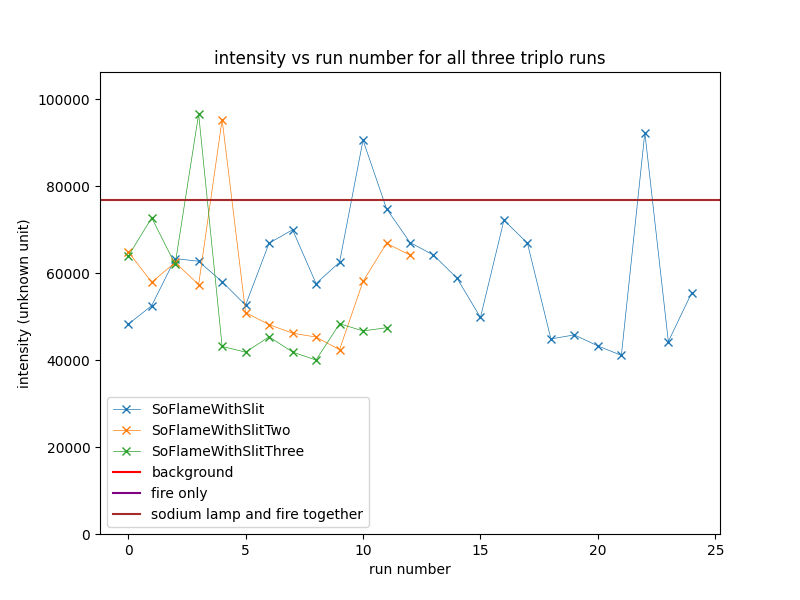
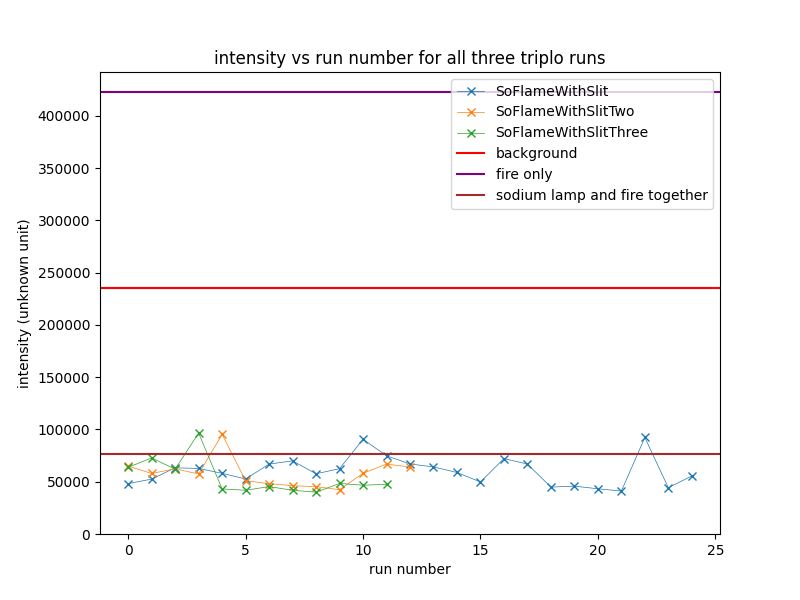
idk

diff --git a/python/package/module.py b/python/package/module.py
@@ -22,7 +22,7 @@ def _process_file(data, file, setupNumber):
     line = file.readline()                   # first columnname                
     while (True):                            # iterate over the columns
         columnName = line[:-1]               # cut of the '\n' at the end of the line                  
-        if (columnName == ""):               # check end of file (debug lamda)
+        if (columnName == ""):               # check end of file, readline() returns "" at end of file
             break 
                                              # add new column to data
         data[setupNumber][columnName] = np.zeros(4_098) # for some weird reason, 4_096 is not enough
@@ -31,10 +31,10 @@ def _process_file(data, file, setupNumber):
             line = file.readline()    
             try:                             # try to convert into float
                 value = float(line)
+                data[setupNumber][columnName][lineNr] = value   # add value to data       
                 lineNr += 1
             except:                   
                 break                        # line is non numeric => line is column name
-            data[setupNumber][columnName][lineNr] = value   # add value to data       
 # process could fastened by deleting variable columnName
          
 def acquire_data():
@@ -170,13 +170,13 @@ def plot_experiment(background, fireLight, sodiumLight, sodiumLampAndFlameLight,
     sodiumWithMagnet = ["SodiumWithMagnetic", "Two", "Three"]
     mercury = ["fireWithSodium", "two", "third"]
     
-    for setupNumber, experiment in [(5, sodium),
-                                    (6, sodiumWithMagnet), 
-                                    (9, mercury)]:
+    for setupNumber, runNames in [(5, sodium),
+                                  (6, sodiumWithMagnet), 
+                                  (9, mercury)]:
         plt.figure(figsize=(8, 6))
-        for run in experiment:
-            intensities = get_intensities(newData[setupNumber][run])
-            plt.plot(intensities, label=run, linestyle='-', marker = 'x', linewidth=0.5)
+        for runName in runNames:
+            intensities = get_intensities(newData[setupNumber][runName])
+            plt.plot(intensities, label=runName, linestyle='-', marker = 'x', linewidth=0.5)
         plt.axhline(background, label="background", color="red")
         plt.axhline(fireLight, label="fire only", color="purple")
         plt.axhline(sodiumLampAndFlameLight, label="sodium lamp and fire together", color="brown")
@@ -184,7 +184,7 @@ def plot_experiment(background, fireLight, sodiumLight, sodiumLampAndFlameLight,
         plt.title("intensity vs run number for all three triplo runs")
         plt.xlabel("run number")
         plt.ylabel(f"intensity (unknown unit)")
-        plt.ylim(0, max(intensities)*1.1)
+        plt.ylim(bottom=0)
         plt.legend()
         make_directory("../report-plots")
         plt.savefig(f"../report-plots/{setupNumber}: intensity vs run.png")

diff --git a/python/tmp.py b/python/tmp.py
@@ -1,15 +1,25 @@
-def get_intensity_plot(spectraDictionary, lambdaArray, dictionaryName):
-    print_dbg(PROGRES, f"getting intensities       for {dictionaryName}...")
-    intensities = []
-    for spectrumNameOrNumber in spectraDictionary:
-        if (spectrumNameOrNumber != "λ" and spectrumNameOrNumber != "Raw_E"):
-            intensity = get_intensity(spectraDictionary[spectrumNameOrNumber], lambdaArray)
-            intensities.append(intensity)
-            plt.plot(range(len(intensities)), intensities, label=spectrumNameOrNumber)
-    plt.title(f"Intensity vs run")
-    # plt.xlim(580, 600)
-    plt.xlabel(f"run number")
-    plt.ylabel(f"intensity")
-    make_directory(f"../plots/intensities")
-    plt.savefig(f"../plots/intensities/{dictionaryName}.png")
-    plt.clf() #clear figure
+def plot_experiment(background, fireLight, sodiumLight, sodiumLampAndFlameLight,
+                    newData):  
+    sodium = ["SoFlameWithSlit", "SoFlameWithSlitTwo", "SoFlameWithSlitThree"]
+    sodiumWithMagnet = ["SodiumWithMagnetic", "Two", "Three"]
+    mercury = ["fireWithSodium", "two", "third"]
+    
+    for setupNumber, runNames in [(5, sodium),
+                                  (6, sodiumWithMagnet), 
+                                  (9, mercury)]:
+        plt.figure(figsize=(8, 6))
+        for runName in runNames:
+            intensities = get_intensities(newData[setupNumber][runName])
+            plt.plot(intensities, label=runName, linestyle='-', marker = 'x', linewidth=0.5)
+        plt.axhline(background, label="background", color="red")
+        plt.axhline(fireLight, label="fire only", color="purple")
+        plt.axhline(sodiumLampAndFlameLight, label="sodium lamp and fire together", color="brown")
+        
+        plt.title("intensity vs run number for all three triplo runs")
+        plt.xlabel("run number")
+        plt.ylabel(f"intensity (unknown unit)")
+        plt.ylim(0, max(intensities)*1.1)
+        plt.legend()
+        make_directory("../report-plots")
+        plt.savefig(f"../report-plots/{setupNumber}: intensity vs run.png")
+        plt.clf()
